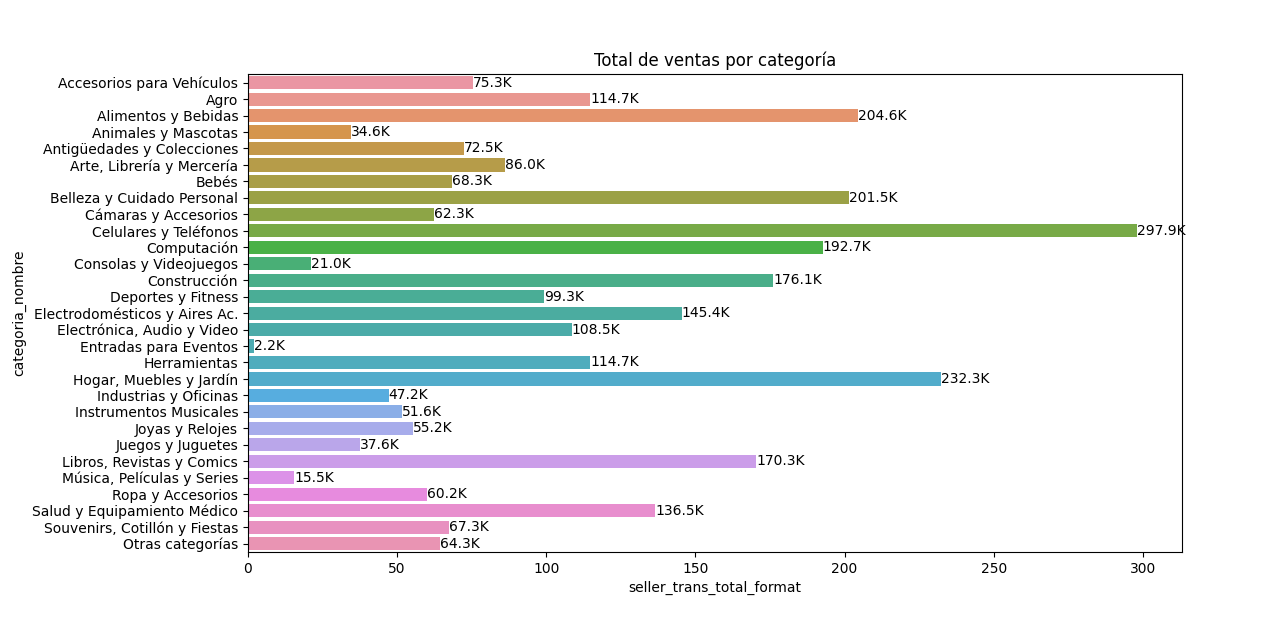
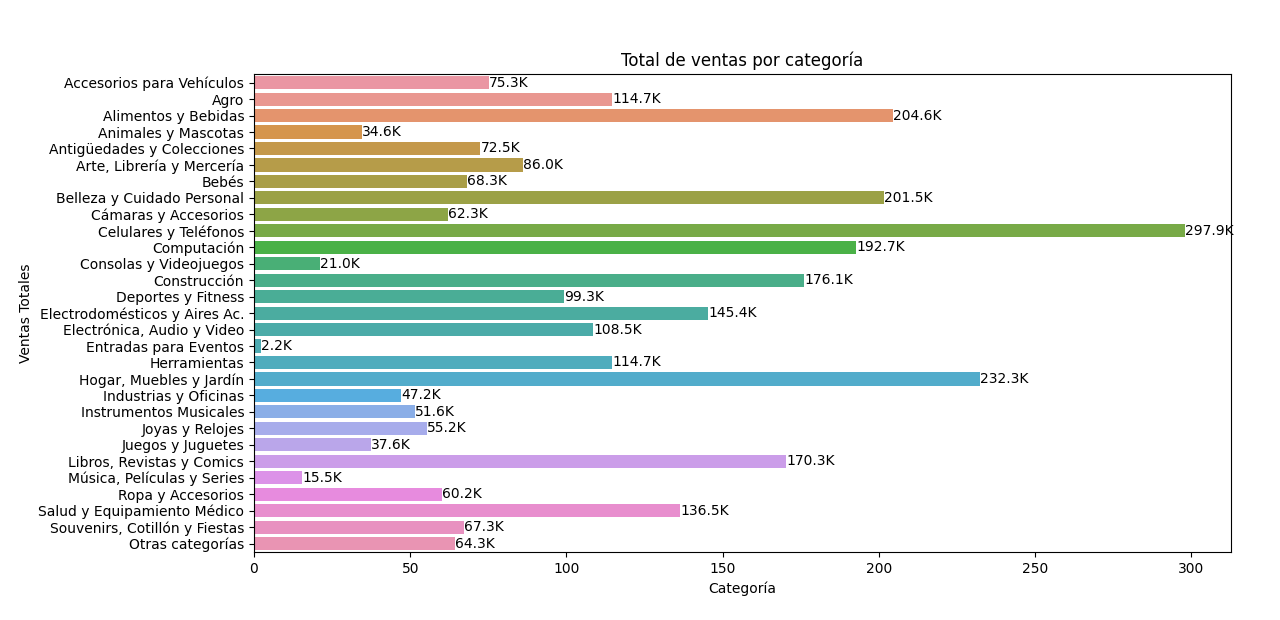
EDA y capturas

diff --git a/tp_eda.py b/tp_eda.py
@@ -3,50 +3,70 @@ import matplotlib.pyplot as plt
 import seaborn as sbn
 
 path = "dataset_meli.csv"
+
 df = pd.read_csv(path, sep='|')
-df['porcent_canceladas'] = df.apply(lambda x: x['seller_trans_canceled'] / x['seller_trans_total'], axis=1)
+
+# Aplicamos transformaciones sobre los campos para lograr una mejor representación de los mismos
+df['seller_trans_canceled_rate_perc'] = df.apply(lambda x: (x['seller_trans_canceled'] / x['seller_trans_total'])*100, axis=1)
+df['seller_metrics_claims_rate_perc'] = df.apply(lambda x: x['seller_metrics_claims_rate']*100, axis=1)
+df['seller_trans_rating_negative_perc'] = df.apply(lambda x: x['seller_trans_rating_negative']*100, axis=1)
+df['seller_trans_total_formatted'] = df.apply(lambda x: x['seller_trans_total']/1000, axis=1)
+df['flag_rating_negative'] = df.apply(lambda x: 'Con rating Negativo' if x['seller_trans_rating_negative'] >= 0.05 else 'Sin rating Negativo', axis=1)
 
 plt.figure(figsize=(25, 10))
-plt.xticks(rotation=90)
-axis = sbn.barplot(data=df, y='categoria_nombre', x="seller_trans_total", errorbar=('ci', False))
+axis = sbn.barplot(data=df, y='categoria_nombre', x="seller_trans_total_formatted", errorbar=('ci', False))
+axis.set_title('Total de ventas por categoría')
+axis.set(xlabel='Categoría', ylabel='Ventas Totales')
 for i in axis.containers:
-    axis.bar_label(i, )
-plt.legend(loc='upper left', bbox_to_anchor=(1, 0.95))
+    axis.bar_label(i, fmt='%.1fK')
 axis.set_xticklabels(axis.get_xticklabels(), horizontalalignment='center', rotation=0)
 plt.show()
 
-plt.figure(figsize=(25, 10))
-plt.xticks(rotation=90)
-axis = sbn.barplot(data=df, y='categoria_nombre', x="porcent_canceladas", errorbar=('ci', False))
+# seller_trans_canceled, seller_metrics_claims_rate, seller_trans_rating_negative
+# Analizamos outliers en el dataset para cada una de las variables en cuestión
+# Observamos algunos outliers que "ensucian" de alguna forma la representación de la relación. Por ende, se deciden
+# eliminar utilizando un intervalo del 99%
+q_low = df["seller_metrics_claims_rate_perc"].quantile(0.01)
+q_hi = df["seller_metrics_claims_rate_perc"].quantile(0.99)
+df_f = df[(df["seller_metrics_claims_rate_perc"] < q_hi) & (df["seller_metrics_claims_rate_perc"] > q_low)]
+
+q_low = df_f["seller_trans_canceled_rate_perc"].quantile(0.01)
+q_hi = df_f["seller_trans_canceled_rate_perc"].quantile(0.99)
+df_f = df_f[(df_f["seller_trans_canceled_rate_perc"] < q_hi) & (df_f["seller_trans_canceled_rate_perc"] > q_low)]
+
+# Observamos que no existe relación directa entre calificaciones negativas y cancelaciones de transacciones
+figa, axa = plt.subplots(1, 2, figsize=(8, 8))
+axis = sbn.scatterplot(data=df, x="seller_metrics_claims_rate_perc", y="seller_trans_canceled_rate_perc", hue='flag_rating_negative', ax=axa[0])
+axis.set_title('Relación Reclamos - Cancelaciones (Con Outliers)')
+axis.set(xlabel='Reclamos', ylabel='Cancelaciones')
+axis.legend(title='Rating')
+
+axis = sbn.scatterplot(data=df_f, x="seller_metrics_claims_rate_perc", y="seller_trans_canceled_rate_perc", hue='flag_rating_negative', ax=axa[1])
+axis.set_title('Relación Reclamos - Cancelaciones (Sin Outliers)')
+axis.set(xlabel='Reclamos', ylabel='Cancelaciones')
+axis.legend(title='Rating')
+plt.show()
+
+
+# Se decide continuar el análisis con las categorías de mayor venta ya que se asume que son las de mayor
+# interés para el usuario
+# Alimentos y Bebidas, Belleza y Cuidado Personal, Celulares y Teléfonos, Hogar, Muebles y Jardín
+categories = ["Alimentos y Bebidas", "Belleza y Cuidado Personal", "Celulares y Teléfonos", "Hogar, Muebles y Jardín"]
+df_filtered = df_f[df_f['categoria_nombre'].isin(categories)]
+fig, ax = plt.subplots(1, 2, figsize=(8, 8))
+axis = sbn.barplot(data=df_filtered, x='categoria_nombre', y="seller_trans_canceled_rate_perc", errorbar=('ci', False), ax=ax[0], hue='flag_rating_negative')
+axis.set_title('Proporción de ventas canceladas por categoría')
+axis.set(xlabel='Categoría', ylabel='Porcentaje Cancelaciones')
 for i in axis.containers:
-    axis.bar_label(i, )
-plt.legend(loc='upper left', bbox_to_anchor=(1, 0.95))
-axis.set_xticklabels(axis.get_xticklabels(), horizontalalignment='center', rotation=0)
-plt.show()
+    axis.bar_label(i, fmt='%.2f%%')
+axis.set_xticklabels(axis.get_xticklabels(), horizontalalignment='center', rotation=30)
+axis.legend(title='Rating')
 
-# Arriba de 0.068
-categories = ['Consolas y Videojuegos', 'Ropa y Accesorios', 'Otras Categorías', 'Electrónica, Audio y Video', 'Joyas y Relojes']
-df_filtered = df[df.categoria_nombre.isin(categories)]
-
-_, ax = plt.subplots(1, 2, figsize=(25, 10))
-
-sbn.catplot(data=df_filtered, x='categoria_nombre', y='seller_trans_total', kind='box', ax=ax[0])
-q_low = df_filtered["seller_trans_total"].quantile(0.01)
-q_hi = df_filtered["seller_trans_total"].quantile(0.99)
-df_filtered = df_filtered[(df_filtered["seller_trans_total"] < q_hi) & (df_filtered["seller_trans_total"] > q_low)]
-sbn.catplot(data=df_filtered, x='categoria_nombre', y='seller_trans_total', kind='box', ax=ax[1])
-plt.show()
-
-sbn.jointplot(data=df_filtered, x="porcent_canceladas", y="seller_metrics_claims_rate", kind='hex')
-plt.show()
-sbn.scatterplot(data=df_filtered, x="porcent_canceladas", y="seller_metrics_claims_rate", hue='categoria_nombre')
-plt.show()
-
-
-_, ax = plt.subplots(1, 2, figsize=(25, 10))
-# sbn.set_palette(palette=sbn.color_palette(['green', 'blue', 'red', 'orange']))
-axisa = sbn.kdeplot(data=df_filtered, x='porcent_canceladas', hue='categoria_nombre', ax=ax[0], multiple="stack")
-axisa.set(title="Distribución de cancelaciones")
-axisb = sbn.kdeplot(data=df_filtered, x='seller_metrics_claims_rate', hue='categoria_nombre', ax=ax[1], multiple="stack")
-axisb.set(title="Distribución de rating negativos")
+axis = sbn.barplot(data=df_filtered, x='categoria_nombre', y="seller_metrics_claims_rate_perc", errorbar=('ci', False), ax=ax[1], hue='flag_rating_negative')
+axis.set_title('Proporción de reclamos por categoría')
+axis.set(xlabel='Categoría', ylabel='Porcentaje reclamos')
+for i in axis.containers:
+    axis.bar_label(i, fmt='%.2f%%')
+axis.set_xticklabels(axis.get_xticklabels(), horizontalalignment='center', rotation=30)
+axis.legend(title='Rating')
 plt.show()
